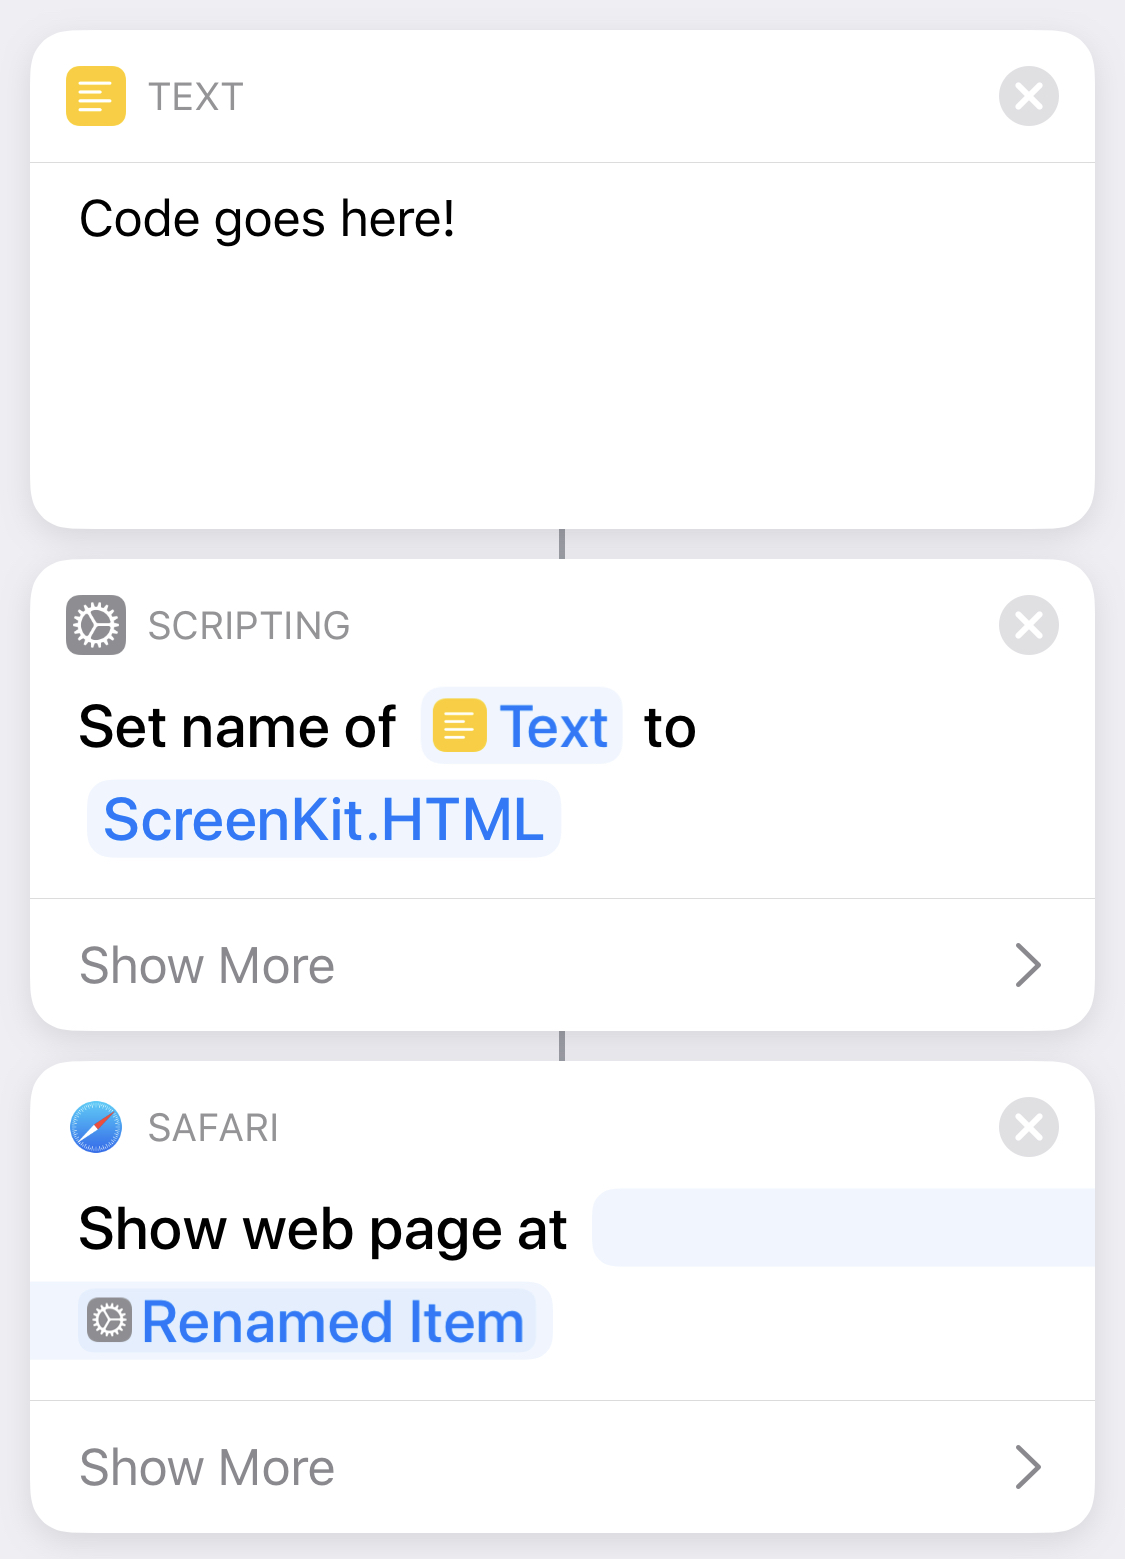
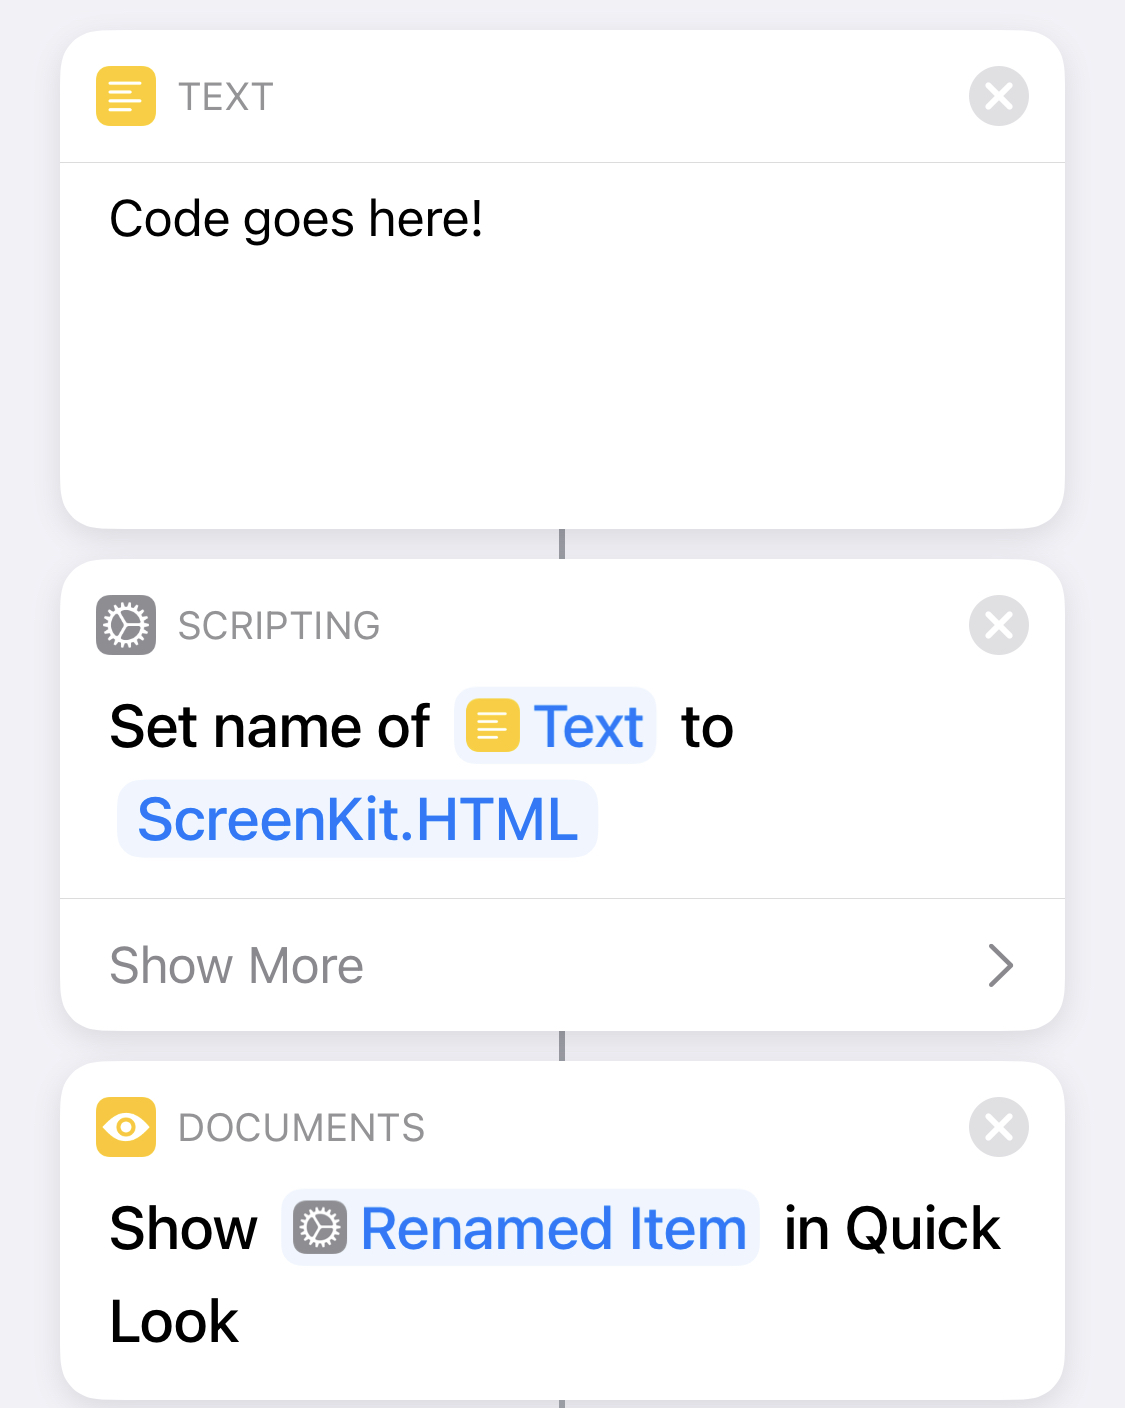
Updated description

diff --git a/screenkit-documentation.html b/screenkit-documentation.html
@@ -110,6 +110,7 @@ a{
 <li><a href="#Introduction">Introduction</a></li>
 <li><a href="#How to implement">How to implement</a></li>
 <li><a href="#Implement 1.2">Implement Install Update (1.2)</a></li>
+<li><a href="#Implement 1.3">Implement What's New Screen (1.3)</a></li>
 <li><a href="#Special text and lists">Special text and lists</a></li>
 <li><a href="#Support badge">Support badge</a></li>
 <li><a href="#Credits">Credits</a></li>
@@ -132,7 +133,7 @@ First of all, ScreenKit is a development tool built by alombi that let the devel
 <li>Open your shortcut and find the place where you want to place the HTML page</li>
 <li>Add a "Text" action and paste the code</li>
 <li>Add a "Set Name" action and put .html as extension (Example.html)</li>
-<li>Add a "Show web page" action.</li>
+<li>Add a "Quick Look" action.</li>
 <li>Done!</li>
 </ul>
 </p>
@@ -155,6 +156,24 @@ First of all, ScreenKit is a development tool built by alombi that let the devel
 </p>
 <br>
 <img src="images/screen1.png">
+</div>
+<br>
+<div id="Implement 1.3">
+  <h2>How to implement the What's New Screen on iOS 14</h2>
+  <p>With the iOS 14 release, the old method isn't working anymore. Implementing What's New Screens is sill possible of course, but you'll need some extra steps.</p>
+  <ul>
+    <li>First of all, create a project and export it</li>
+    <li>Open your shortcut and find the place where you want to place the HTML page</li>
+    <li>Add a "Text" action and paste the code</li>
+    <li>Add an "URL" action containing <code>data:text/html,</code> and the magic variable Text</li>
+    <li>Add a "Get contents of web page at URL" action where URL is the magic variable of the URL that you have just declared</li>
+    <li>Add a "Text" action</li>
+    <li>Copy this code <a onclick="copy()">Copy</a></li>
+    <input style="display:none" type="text" value="" id="code">
+    <li>Paste the code you copied in the Text action</li>
+    <li>Add a "Set Name" action and put .html as extension (Example.html)</li>
+    <li>Add a "Quick Look" action.</li>
+  </ul>
 </div>
 <br>
 <div id="Special text and lists">
@@ -188,9 +207,21 @@ Please don't steal the code that ScreenKit generates. Use it freely in your shor
 <p style="font-size:15px; color: #474747; text-align: center;"> ©2020 alombi</p> </p>
 </div>
 <br>
-  <script>
-    var scroll = new SmoothScroll('a[href*="#"]');
-  </script>
-<script src="smooth-scroll.js"></script>
+<script>
+  const copy = async() => {
+  let req = await fetch('https://alombi.xyz/ScreenKit.txt')
+  let text = await req.text()
+  document.getElementById("code").value = text
+  var copyText = document.getElementById("code");
+  copyText.select(); 
+  copyText.setSelectionRange(0, 99999);
+  document.execCommand("copy");
+}
+</script>
+  
+<script src="./smooth-scroll.js"></script>
+<script>
+  var scroll = new SmoothScroll('a[href*="#"]');
+</script>
 </body>
 </html>
